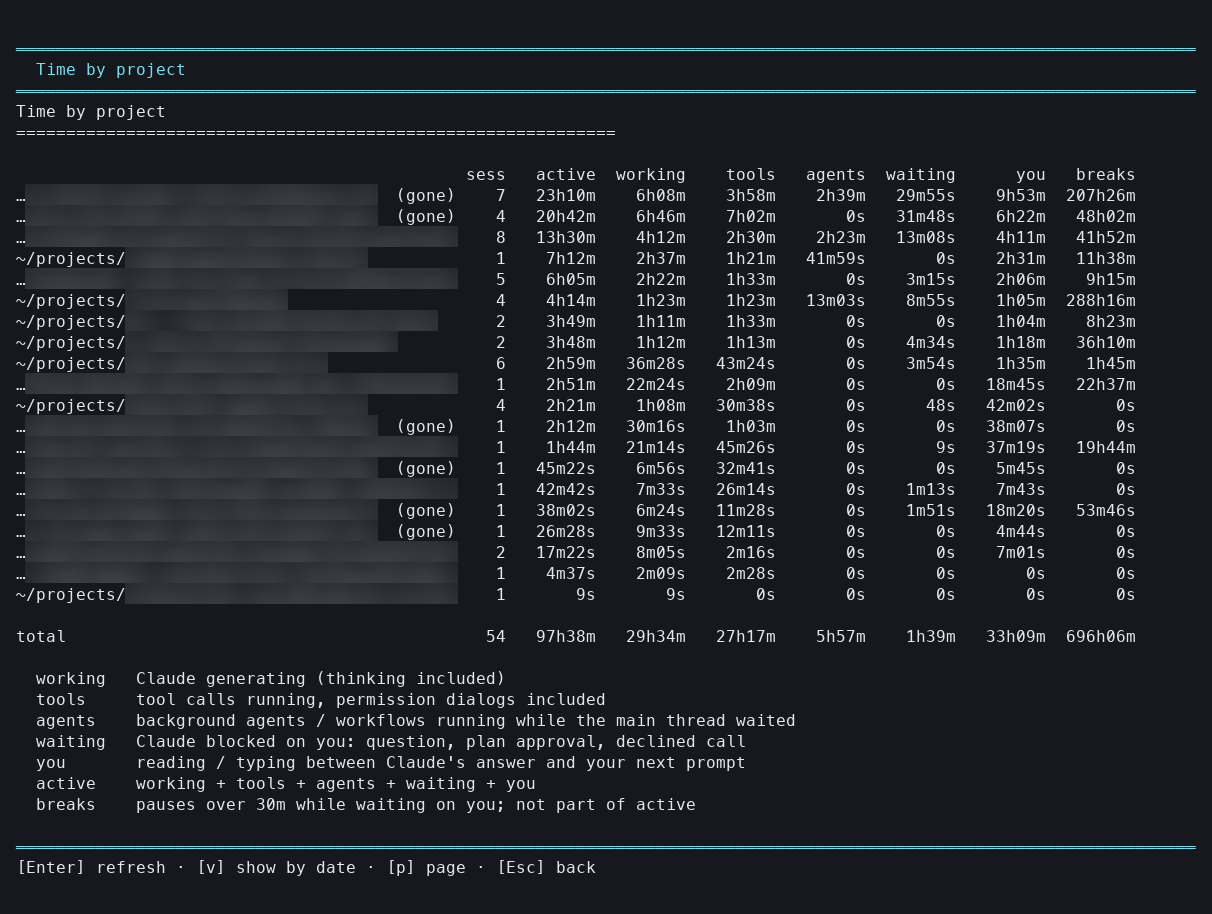
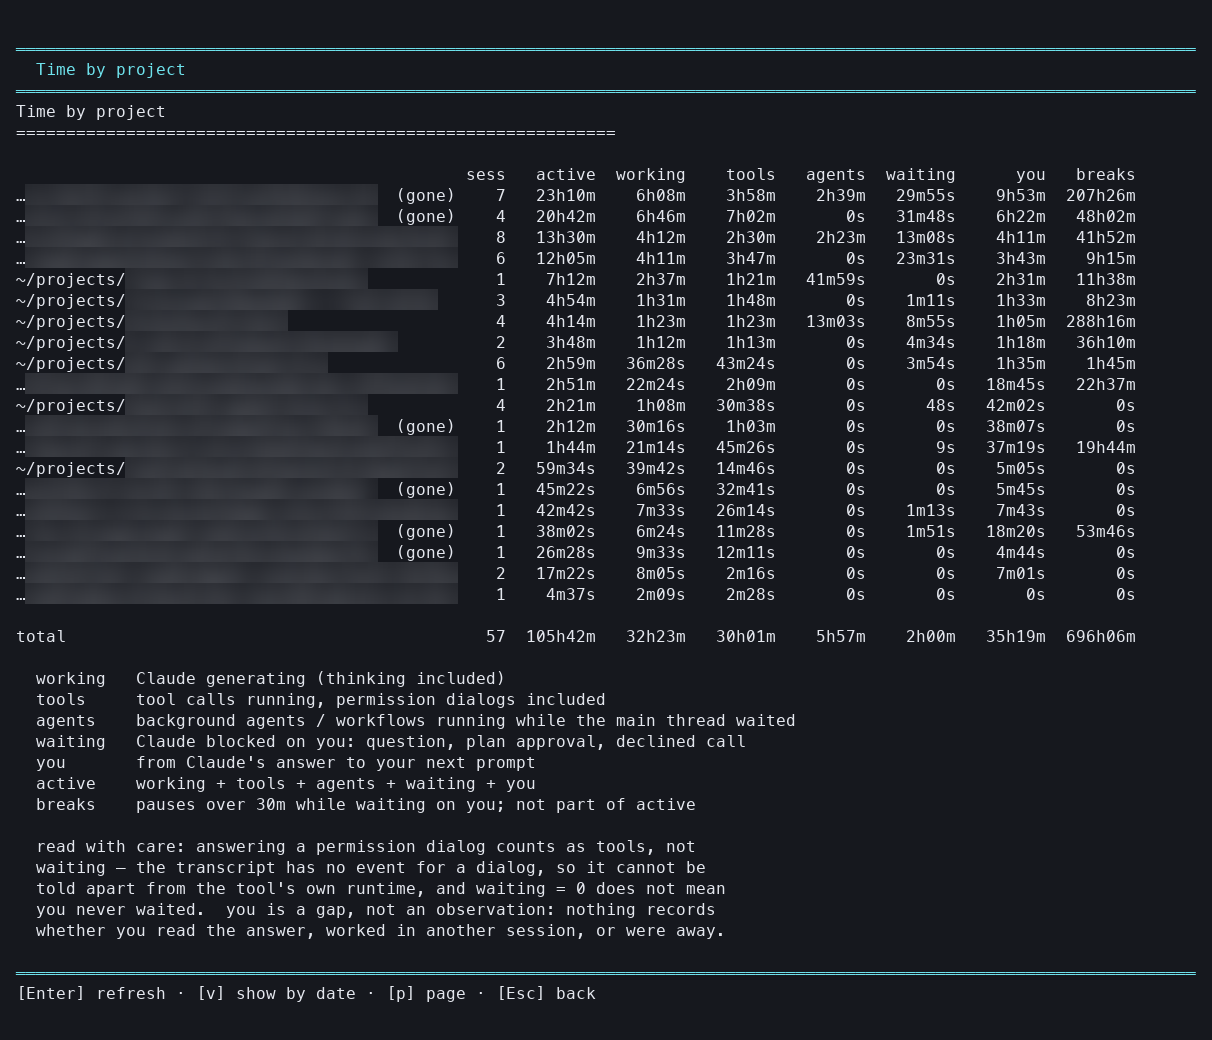
Say what the time buckets cannot know, everywhere they are printed
A permission dialog leaves no trace of its own in a transcript: there is no
event for it opening or for the answer, and a tool result carries no runtime.
The seconds spent answering one are therefore welded into "tools running", and
"waiting on you" only ever counted questions, plan approval, declined calls and
Esc — so that row can read 0s in a session where the user did wait. The "you"
bucket has the same problem from the other side: it is the bare gap until the
next prompt, and nothing records whether it was spent reading, in another
session, or away from the desk.

Both caveats are now stated wherever the numbers appear: beside the rows and
under the single-session view, in the legend printed under every table, in
--help, in the TUI menu and its help screen, in the README and in a new
"What the transcript cannot tell you" section of the reference. The idle row is
relabelled "you (gap to next prompt)", since "reading, typing" claimed to know
something the data does not. Buckets and analyze_session document the same
limits for anyone reading the code.

Screenshots of the three time views regenerated; shots.py grows their frames to
fit the longer output.

Changed region(s): [[0.0, 0.0306, 0.9769, 0.9803], [0.6716, 0.1532, 0.9464, 0.7046], [0.0, 0.2451, 0.1221, 0.4595]]

diff --git a/time-report.py b/time-report.py
@@ -11,9 +11,16 @@ attributed to whoever was busy during it:
                    <session-id>/subagents/ and are priced from there)
   waiting on you   AskUserQuestion, plan approval, a declined tool call, or a
                    permission prompt you answered with Esc
-  you              Claude finished → your next prompt (reading, typing)
+  you              Claude finished → your next prompt
   breaks           "you" gaps longer than --break-min — walked away; excluded
                    from active time
+
+Two caveats, repeated under every table: the time you spend answering a
+permission dialog stays in "tools running" (the transcript has no event for a
+dialog, so it cannot be told apart from the tool's own runtime) — "waiting on
+you" therefore counts only questions, plan approval, declined calls and Esc;
+and "you" is the bare gap until your next prompt, with nothing recording
+whether you were reading, in another session, or away from the desk.
 
 Usage:
   ./time-report.py                         # accumulated time per project
@@ -61,9 +68,15 @@ def legend(args) -> str:
         "  tools     tool calls running, permission dialogs included",
         "  agents    background agents / workflows running while the main thread waited",
         "  waiting   Claude blocked on you: question, plan approval, declined call",
-        "  you       reading / typing between Claude's answer and your next prompt",
+        "  you       from Claude's answer to your next prompt",
         "  active    working + tools + agents + waiting + you",
         f"  breaks    pauses over {args.break_min:g}m while waiting on you; not part of active",
+        "",
+        "  read with care: answering a permission dialog counts as tools, not",
+        "  waiting — the transcript has no event for a dialog, so it cannot be",
+        "  told apart from the tool's own runtime, and waiting = 0 does not mean",
+        "  you never waited.  you is a gap, not an observation: nothing records",
+        "  whether you read the answer, worked in another session, or were away.",
     ]
     if args.day_start:
         lines.append(f"  days start at {int(args.day_start):02d}:00 local")
@@ -247,14 +260,14 @@ def print_session(a: L.SessionAnalysis, args):
     line("claude working", b.working)
     if a.has_block_events and b.thinking:
         print(f"    of which thinking      {L.fmt_dur_long(b.thinking):>12}")
-    line("tools running", b.tools)
+    line("tools running", b.tools, "execution + permission dialogs, inseparable")
     if b.approval_n:
         print(f"    likely permission prompts {L.fmt_dur_long(b.approval):>9}  ({b.approval_n} instant tool(s) > {args.approve_secs}s)")
     if a.agent_runs:
         line("background agents", b.agents, "workflows / Agent tool while the main thread waited")
         print(f"    {a.agent_runs} run(s), {L.fmt_dur_long(a.agent_runtime)} of agent time in total, ${a.cost_agents:.2f}")
-    line("waiting on you", b.waiting, "questions / plan approval / declined prompts")
-    line("you (reading, typing)", b.idle)
+    line("waiting on you", b.waiting, "questions / plan approval / declined prompts only")
+    line("you (gap to next prompt)", b.idle, "not observed — see the note below")
     print()
 
     rt = a.response_times
@@ -280,8 +293,18 @@ def print_session(a: L.SessionAnalysis, args):
             print(f"{p.n:>3}  {when:16} {reply:>8} {L.fmt_dur(p.working_secs):>8} {sum(p.tools.values()):>5}"
                   f" ${p.cost + p.cost_agents:6.2f}  {text[:44]}{flag}")
     print()
-    print("  (times come from event timestamps; tool time includes permission dialogs;")
-    print("   background agents are priced from their own transcripts)")
+    print("  Times come from event timestamps, and two of these numbers are weaker")
+    print("  than they look:")
+    print("   · the seconds you spend answering a permission dialog are inside")
+    print("     \"tools running\".  The transcript writes no event for a dialog, only")
+    print("     the tool call and its result, so the dialog cannot be told apart from")
+    print("     the tool's own runtime — for Bash and other slow tools not at all.")
+    print("     \"waiting on you\" counts only questions, plan approval, declined calls")
+    print("     and Esc, so a 0 there does not mean you never waited.")
+    print("   · \"you\" is the bare gap until your next prompt.  Nothing records whether")
+    print("     you read the answer, worked in another session, or left the desk; only")
+    print(f"     gaps over {args.break_min:g}m drop out of active time as breaks.")
+    print("  (background agents are priced from their own transcripts)")
 
 
 # ---------------------------------------------------------------- main

diff --git a/cct_lib.py b/cct_lib.py
@@ -367,15 +367,34 @@ def group_jsonls(group: Group) -> list[Path]:
 
 @dataclass
 class Buckets:
-    """Seconds per state. `active` excludes breaks."""
+    """Seconds per state. `active` excludes breaks.
+
+    Two of these are weaker than they look, and every view that prints them
+    has to say so:
+
+    `tools` holds the time you spent answering a permission dialog. The
+    transcript has no event for a dialog — only `tool_use` and `tool_result`
+    timestamps — so the answer time and the tool's own runtime are one number
+    that cannot be split. For a tool that normally returns instantly the
+    excess is almost certainly the dialog (see `approval`); for Bash and other
+    genuinely slow tools nothing in the log tells the two apart.
+
+    `idle` is a gap, not an observation. It is the span from Claude's last
+    output to your next prompt, and nothing records what happened in it: you
+    may have been reading, working in another session, or away from the desk.
+    Gaps above the break threshold are moved to `breaks`; below it they stay
+    here and are counted as active time.
+    """
     working: float = 0.0     # Claude generating (incl. thinking)
     thinking: float = 0.0    # of working: gaps that ended in a thinking-only block
-    tools: float = 0.0       # tool_use → tool_result (execution + permission dialogs)
+    tools: float = 0.0       # tool_use → tool_result (execution + permission dialogs, inseparable)
     approval: float = 0.0    # of tools: instant tools that stalled → likely permission prompt
     approval_n: int = 0
     agents: float = 0.0      # background agents / workflows running while the main thread waited
     waiting: float = 0.0     # blocked on you: question / plan approval / declined prompt
-    idle: float = 0.0        # Claude done, you reading / typing (≤ break threshold)
+                             # — NOT permission dialogs, which land in `tools`
+    idle: float = 0.0        # Claude done → your next prompt; unattended time is
+                             # indistinguishable from reading (≤ break threshold)
     breaks: float = 0.0      # idle gaps above the threshold — excluded from active
     breaks_n: int = 0
 
@@ -592,8 +611,14 @@ def analyze_session(path: Path, break_secs: float = DEFAULT_BREAK_SECS,
       ends in a tool result     → a tool ran / a permission dialog → tools
                                   (AskUserQuestion, plan approval or a
                                    declined tool → waiting on you)
-      ends in a typed prompt    → Claude was done, you were reading
-                                  or typing                        → idle
+      ends in a typed prompt    → Claude was done and nothing else
+                                  is recorded until you answer     → idle
+
+    Neither `tools` nor `idle` is as precise as it reads — see `Buckets`.
+    A permission dialog you answered with "yes" leaves no trace of its own
+    in the transcript, so the seconds you spent on it stay inside `tools`
+    and `waiting` can be zero in a session where you did wait; and `idle`
+    is the bare gap until your next prompt, whatever you were doing in it.
 
     Any gap longer than `break_secs` that was waiting on a person — an idle
     gap, a question, a pending tool call (a permission dialog left open

diff --git a/.claude/skills/docs-screenshots/shots.py b/.claude/skills/docs-screenshots/shots.py
@@ -77,13 +77,15 @@ SHOTS = {
     "cost-by-project":      dict(keys=["7", "enter", 6.0], rows=30),
     "project-daily-extended": dict(keys=["7", "enter", 6.0, "enter", 6.0, "v"], rows=40),
     "merged-projects":  dict(keys=["8", "enter", 1.5, "down", "enter", 4.0, "v"], rows=22),
-    "time-by-project":  dict(keys=["9", "enter", 2.0, "enter"], rows=42, settle=10.0),
-    "time-by-date":     dict(keys=["9", "enter", 2.0, "enter", 10.0, "v"], rows=42, settle=10.0),
+    # The time views carry a five-line "read with care" note under every table
+    # and a longer one under the single-session view — hence the tall rows.
+    "time-by-project":  dict(keys=["9", "enter", 2.0, "enter"], rows=48, settle=10.0),
+    "time-by-date":     dict(keys=["9", "enter", 2.0, "enter", 10.0, "v"], rows=48, settle=10.0),
     "time-session": dict(keys=["3", "enter", 4.0, "/" + SESSION_FILTER, 1.5,
-                               "enter", 2.0, "2", "enter"], rows=30, settle=10.0),
+                               "enter", 2.0, "2", "enter"], rows=41, settle=10.0),
     "time-session-turns": dict(keys=["3", "enter", 4.0, "/" + SESSION_FILTER, 1.5,
                                      "enter", 2.0, "2", "enter", 10.0, "v"],
-                               rows=42, settle=10.0),
+                               rows=53, settle=10.0),
     "export-prompts": dict(keys=["10", 1.5, "enter", 4.0, "/" + PROJECT_FILTER, 1.5,
                                  "enter", 2.0, "enter", 2.0, "enter"], rows=20, settle=8.0),
 }

diff --git a/docs/reference.md b/docs/reference.md
@@ -391,7 +391,7 @@ Where the hours went. Only timestamped `user`/`assistant` events on the main thr
 | --- | --- | --- |
 | assistant output | **claude working** | generating, including thinking (reported separately when the transcript has per-block lines) |
 | a tool result | **tools running** | tool execution, including the permission dialog in front of it. `AskUserQuestion`, `ExitPlanMode` and declined calls go to *waiting* instead. An instant tool (Read, Edit, Glob, …) that took longer than `--approve-secs` (15) is flagged as a likely permission prompt |
-| a typed prompt | **you** | Claude was done, you were reading or typing. A prompt you answered with Esc while a tool call was pending counts as *waiting*. If a background agent or workflow (transcripts under `<session-id>/subagents/`) was running during the gap, that part is **agents** instead |
+| a typed prompt | **you** | Claude was done and nothing more is recorded until you answer. A prompt you answered with Esc while a tool call was pending counts as *waiting*. If a background agent or workflow (transcripts under `<session-id>/subagents/`) was running during the gap, that part is **agents** instead |
 | Claude's next reply, with no prompt from you | *(as a `you` gap)* | Claude resumed by itself: auto-continue after a usage limit ("Continue from where you left off"), a background-task notification. Nothing was generating, so the gap is split into agents / you / break like an idle gap |
 
 Any gap longer than `--break-min` (30) that was waiting on a person — an idle gap, a question, a pending tool call — is a **break** and leaves active time: a permission dialog left open overnight is not tool time. (A tool that genuinely ran longer than the threshold lands there too; rare, and the threshold is yours to set.) Only Claude's own generation is never capped.
@@ -409,13 +409,23 @@ The by-project, by-date and per-session tables share these columns. Durations pr
 | `working` | Gaps that end in Claude's output: from your prompt to its first block, between its blocks, from a tool result to its next block. Thinking is inside this number; the single-session view breaks it out as *of which thinking* when the transcript has per-block lines. Never capped — Claude does not take breaks. |
 | `tools` | Gaps that end in a tool result: the tool running, plus the permission dialog in front of it, which the transcript cannot tell apart. Instant tools (Read, Edit, Write, Glob, Grep, …) slower than `--approve-secs` are counted here but flagged as *likely permission prompts* in the single-session view. |
 | `agents` | Time a background agent or workflow was running while the main thread had nothing to do (otherwise a `you` gap or a break). Overlapping agents count once. The single-session view also shows the number of runs, their total runtime and their cost. |
-| `waiting` | Claude blocked on you: `AskUserQuestion`, `ExitPlanMode` (plan approval), a tool call you declined, or a permission prompt you left with Esc. |
-| `you` | Gaps that end in your next typed prompt after Claude finished: reading the answer, thinking, typing, poking around the IDE. |
+| `waiting` | Claude blocked on you: `AskUserQuestion`, `ExitPlanMode` (plan approval), a tool call you declined, or a permission prompt you left with Esc. A permission prompt you *approved* is not here — it is in `tools`, so a zero in this column does not mean you never waited. |
+| `you` | Gaps that end in your next typed prompt after Claude finished. A gap, not an observation: nothing in the transcript records whether you read the answer, worked in another session, or walked away — only that the gap stayed under `--break-min`. |
 | `breaks` | Any gap longer than `--break-min` (30) that was waiting on a person — a `you` gap, a `waiting` gap, or a pending tool call. Left out of `active`; the single-session view shows how many there were. Attributed to the date the gap *starts* on. |
 
 Per-session table adds `started` (local time of the first event), `id` (first 8 characters of the session UUID), `prompts` (distinct typed prompts) and `title` (Claude's auto-title, else the first prompt).
 
 The single-session view (`--session`) shows the same buckets with their share of `active`, plus `wall` (first event → last event, equals `active + breaks`), the median and slowest *reply* (prompt → Claude's last output of that turn, tools and waiting included), the longest single tool call, and cost (main transcript + background agents) and models. Its per-turn table (`-v`) has one row per prompt: `reply` as above, `working` (Claude generation only, within that turn), `tools` (number of tool calls), `cost`, and the prompt's first line (`⏎` marks a turn you interrupted).
+
+#### What the transcript cannot tell you
+
+Two buckets carry an uncertainty that no amount of parsing removes, so every table and the single-session view repeat it underneath.
+
+**A permission dialog you approved is invisible.** The transcript records the tool call and its result and nothing in between — there is no event for a dialog opening, none for your answer, and the tool result carries no execution time of its own. The seconds you spent reading the command and pressing *yes* are therefore inside **tools**, welded to the tool's own runtime. Where the tool normally returns instantly (`Read`, `Edit`, `Glob`, …) the excess over `--approve-secs` is almost certainly the dialog, and the single-session view flags it as *likely permission prompts*; where the tool can genuinely be slow (`Bash`, `WebFetch`, `Agent`, …) nothing in the log separates the two, and cct does not guess. The practical consequence: **waiting** can read `0s` in a session where you answered several dialogs, because that column only ever counted `AskUserQuestion`, `ExitPlanMode`, declined calls and Esc.
+
+**The `you` bucket is a gap, not attendance.** It is the span from Claude's last output to your next typed prompt. Claude Code writes nothing about what you did in it, and there is no idle or focus signal in the transcript, so reading the answer carefully, working in a different session, and having left the room are one and the same number here. `--break-min` (30 minutes) is the only lever: above it a gap becomes a **break** and leaves active time, below it the whole gap is counted as you being there. If your sessions overlap — you kept working here while that one finished — expect this column to be generous.
+
+Everything else is measured: `working`, `tools` as a total, `agents` and the turn-level figures come straight from timestamps.
 
 Two caveats when reading sums: sessions running side by side each count in full, so a date's total across projects can exceed the clock; and a session that crosses midnight is split between the two dates. A live session is counted up to its last written event, so the turn still in progress is not in yet.
 
@@ -454,9 +464,9 @@ active:  1h 51m 40s   (1 break(s) > 30m excluded: 46m 38s)
 
   claude working                40m 12s   36%  ████████████
     of which thinking           14m 03s
-  tools running                 39m 05s   35%  ███████████
-  waiting on you                 2m 10s    2%  ▌             questions / plan approval / declined prompts
-  you (reading, typing)         30m 13s   27%  █████████
+  tools running                 39m 05s   35%  ███████████   execution + permission dialogs, inseparable
+  waiting on you                 2m 10s    2%  ▌             questions / plan approval / declined prompts only
+  you (gap to next prompt)      30m 13s   27%  █████████     not observed — see the note below
 
 turns:         6 prompts   claude reply: median 4m 12s · max 21m 03s
 longest tool:  Bash 9m 41s
@@ -465,7 +475,16 @@ cost:          $15.40 (list prices)   models: claude-opus-4-7
   #  prompt (local)      reply  working tools    cost  prompt
   1  2026-04-17 15:26   21m03s   11m40s    31 $  5.94  add correct gitignore, this where tut it, in…
   2  2026-04-17 15:51    8m14s    5m02s    12 $  2.18  list sessions shows command wrapper, not rea…
+
+  Times come from event timestamps, and two of these numbers are weaker
+  than they look:
+   · the seconds you spend answering a permission dialog are inside
+     "tools running".  …
+   · "you" is the bare gap until your next prompt.  …
+  (background agents are priced from their own transcripts)
 ```
+
+`reply` in that table is the whole turn — Claude's generation, the tools, and any permission dialog you answered inside it. The `--json` output carries the same numbers without the notes; read them together with [What the transcript cannot tell you](#what-the-transcript-cannot-tell-you).
 
 In the TUI: **Time analytics** (all projects, `v` for by-date; a project or merged project, `v` for per-session) and, inside a session, **Time breakdown** (`v` for the per-turn table).
 

diff --git a/README.md b/README.md
@@ -15,10 +15,11 @@ days cost](docs/images/status.png)
 left to clean up.*
 
 ![Time by project: Claude working, tools running, background agents, waiting on
-you, and you reading and typing](docs/images/time-by-project.png)
+you, and the gap until your next prompt](docs/images/time-by-project.png)
 
 *And where the hours went — per project, split into Claude generating, tools
-running, background agents, waiting on you, and you reading and typing. Project
+running, background agents, waiting on you, and the gap until your next
+prompt. Every table spells out what those last two can and cannot know. Project
 names, paths, session ids and titles, and prompt text are blurred in all
 screenshots.*
 
@@ -80,7 +81,7 @@ You get a menu:
 | **Usage & cost by month** | Per-month totals, ←/→ to step between months |
 | **Cost by project** | Spend ranked by project, with a daily trend per project |
 | **Merged projects** | Bind an old location or a split-off folder to a primary project and see cost, sessions, time and exports for them together |
-| **Time analytics** | Where the hours went: Claude working, tools running, waiting on you, you reading/typing — per project, per day, per session |
+| **Time analytics** | Where the hours went: Claude working, tools running, waiting on you, the gap to your next prompt — per project, per day, per session |
 | **Export prompts** | Your typed prompts as one text file per session, or one JSON with per-prompt stats |
 | **Stack / tech used** | Languages and ecosystems you worked on, by time window |
 | **Troubleshooting / cleanup** | Dead project folders, stale session markers |
@@ -136,12 +137,24 @@ they were; bindings live in `~/.config/cct/merges.json`.
 buckets: **Claude working** (generating, including thinking), **tools running**
 (tool calls incl. permission dialogs), **agents** (background agents and
 workflows running while the main thread waited), **waiting on you** (questions,
-plan approval, declined prompts) and **you** (reading and typing between turns).
+plan approval, declined prompts) and **you** (the gap until your next prompt).
 Gaps longer than 30 minutes count as breaks and are left out of active time.
 You get it per project, per day, per session, and per turn inside one session
 (how long each reply took, how many tool calls, what it cost). Days are local
 calendar days. What you do on the project without talking to Claude is
 invisible to the transcript, so it shows up as a break.
+
+Two of those buckets are weaker than they look, and every table says so
+underneath. The seconds you spend answering a permission dialog are part of
+**tools running**: the transcript writes no event for a dialog, only the tool
+call and its result, so the dialog cannot be told apart from the tool's own
+runtime — for a tool that normally returns instantly the excess is flagged as a
+likely permission prompt, for `Bash` and friends nothing in the log separates
+them. **Waiting on you** therefore counts only questions, plan approval,
+declined calls and Esc, and a zero there does not mean you never waited. And
+**you** is a gap, not an observation: nothing records whether you read the
+answer, worked in another session, or walked away — only that the gap was
+shorter than the break threshold.
 
 Per project that is the table at the top of this page. One session up close —
 the same buckets as bars, what the background agents ran and cost, and (`v`)
